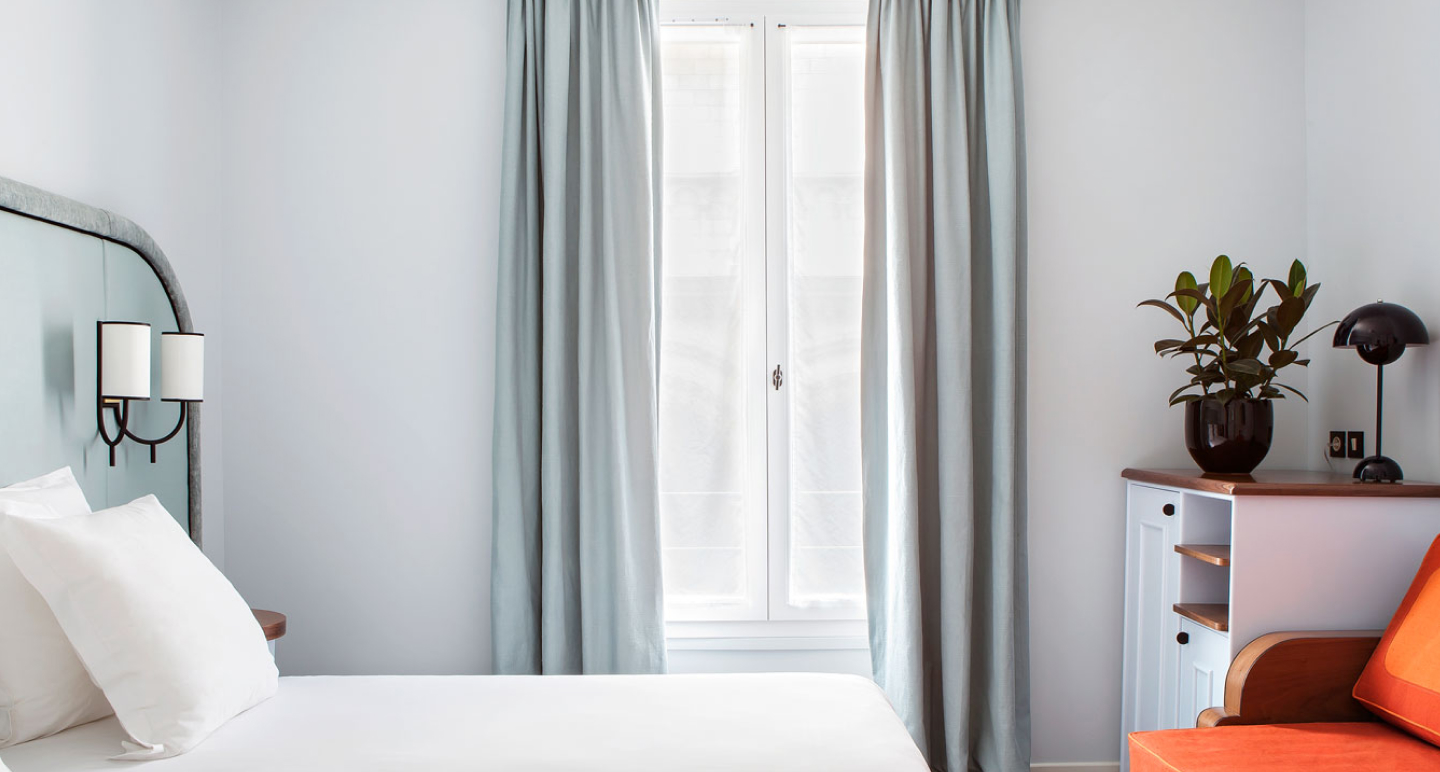
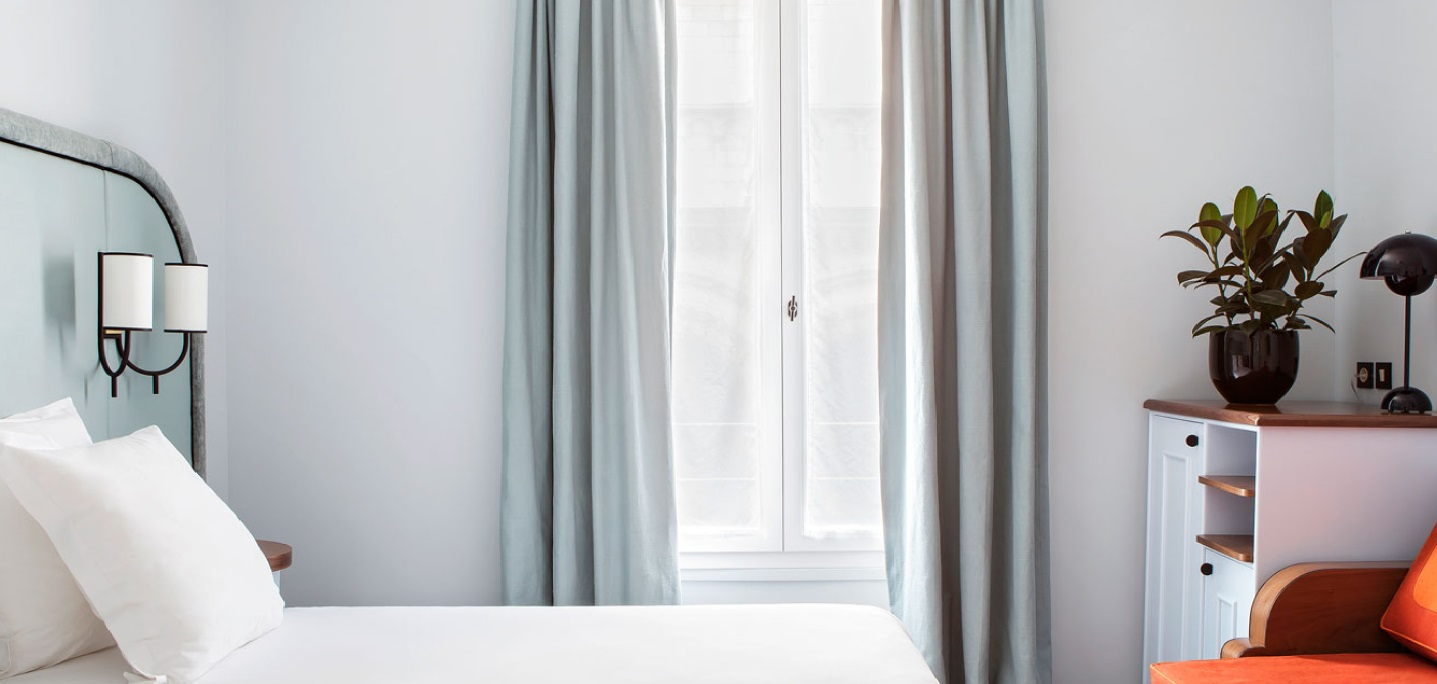
improve landing this perfect pixel

diff --git a/src/website-pages/landing-page/landing.scss b/src/website-pages/landing-page/landing.scss
@@ -1,5 +1,5 @@
-@import "../../assets/utils/vars.scss";
-@import "../../assets/utils/mixin.scss";
+@import "../../assets/utils/main.scss";
+
 
 .landing {
     height: 1343px;
@@ -7,11 +7,22 @@
             background: url(https://vodkamishka.github.io/hotel-webpack-pug-scss/public/assets/img/rooms/main-picture.jpg);
             height: 830px;
             overflow: hidden;
+            position: relative;
         }
         &__search-rooms {
-            margin: 70px 0 0 9.2%;
+            margin: 70px 0 0 9.72%;
             overflow: hidden;
-         
+        }
+        &__text-frame {
+            width: 297px;
+            height: 48px;
+            font-size: 14px;
+            line-height: 24px;
+            text-align: right;
+            color: $shade75;
+            right: 134px;
+            top: 764px;
+            position: absolute;
         }
 }
 

diff --git a/src/website-pages/sign-in/sign-in.scss b/src/website-pages/sign-in/sign-in.scss
@@ -3,8 +3,8 @@
 .sign-in {
     height: 1211px;
         &__image-wrapper {
-            height: 702px;
-            background: url(https://vodkamishka.github.io/hotel-webpack-pug-scss/public/assets/img/rooms/registration.jpg) left bottom;
+            height: 684px;
+            background: url(https://vodkamishka.github.io/hotel-webpack-pug-scss/public/assets/img/rooms/registration.jpg) left bottom no-repeat;
             @include flex-center;
         }
 }

diff --git a/src/components/common/login/login.scss b/src/components/common/login/login.scss
@@ -6,8 +6,10 @@
     @include cards;
         &__fields {
             margin: 20px 0;
-                input:first-child {
-                    margin-bottom: 10px;
+                .input-text:first-child {
+                    input {
+                        margin-bottom: 10px;
+                    }    
                 }
         }
         &__button {

diff --git a/webpack.config.js b/webpack.config.js
@@ -110,7 +110,7 @@ module.exports = {
            }),
         new HTMLWebpackPlugin({
             hash: false,
-            template: `./src/webste-pages/landing-page/landing.pug`
+            template: `./src/website-pages/sign-in/sign-in.pug`
            }),
         new CopyWebpackPlugin([
             { from: './src/assets/img', to: './assets/img' },

diff --git a/src/components/elements/buttons/reg-btn/reg-btn.scss b/src/components/elements/buttons/reg-btn/reg-btn.scss
@@ -18,3 +18,7 @@
             font-style: normal;
         }
 }
+.reg-btn-rus {
+    @extend .reg-btn;
+    width: 196px;
+}

diff --git a/src/components/elements/buttons/log-btn/log-btn.scss b/src/components/elements/buttons/log-btn/log-btn.scss
@@ -18,3 +18,7 @@
             font-style: normal;
         }
 }
+.log-btn-rus {
+    @extend .log-btn;
+    width: 87px;
+}
